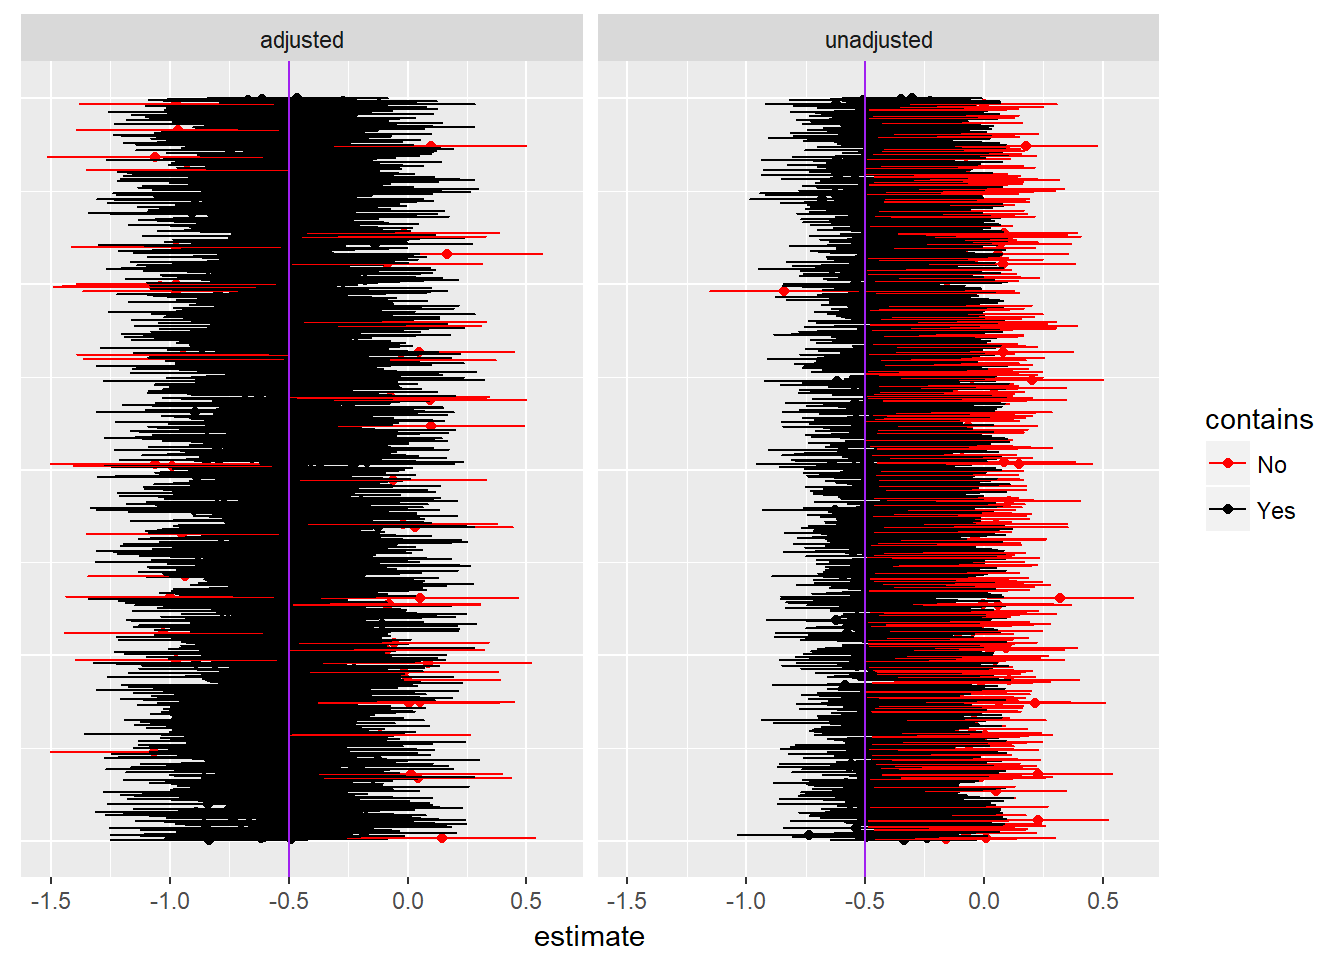
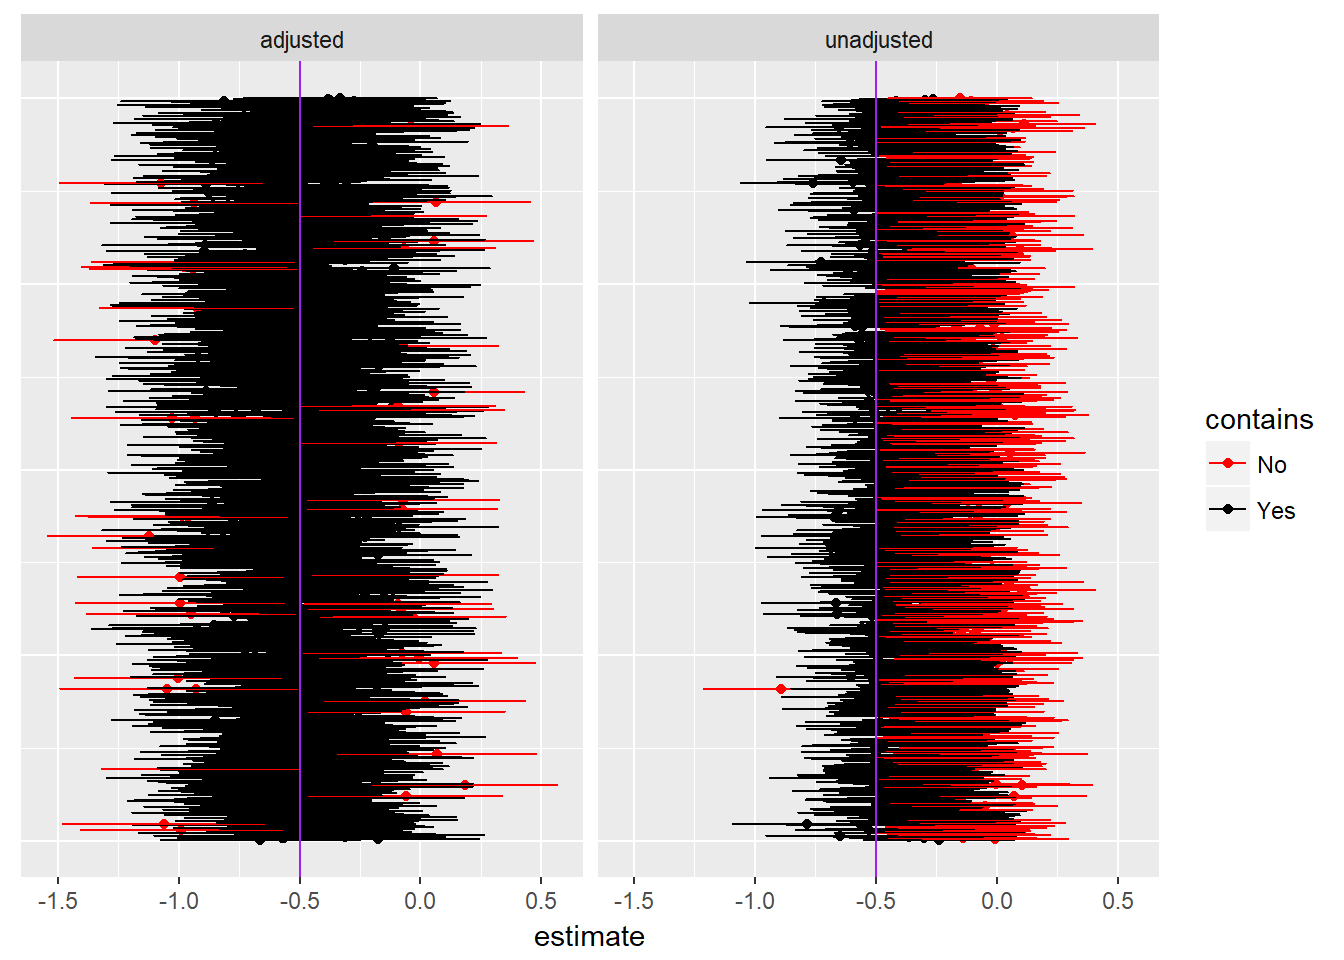
updated blog post

diff --git a/public/post/covariate-adjustment-for-binary-outcomes-in-randomized-trials/index.html b/public/post/covariate-adjustment-for-binary-outcomes-in-randomized-trials/index.html
@@ -59,7 +59,7 @@
 
   <article class="article">
     
-    <span class="article-duration">5 min read</span>
+    <span class="article-duration">8 min read</span>
     
 
     <h1 class="article-title">Covariate Adjustment for Binary Outcomes in Randomized Trials</h1>
@@ -89,30 +89,54 @@ N &lt;- 10000
 Sigma &lt;- matrix(c(10,3,3,2),2,2)
 unadj.df &lt;- data.frame(matrix(rep(NA, N*4), ncol = 4))
 adj.df &lt;- data.frame(matrix(rep(NA, N*4), ncol = 4))
-
+unadj.OR &lt;- adj.OR &lt;- OR &lt;- rep(NA, N)
 
 for(i in 1:N){
-
+  
   X &lt;- mvrnorm(1000, mu = c(0,0), Sigma = Sigma)
   #simulate random assignment to a treatment
   TRT &lt;- rbinom(1000, size = 1, pr = .5)
-  #Real relationship
-  lo &lt;- -2 + .15 * X[,1] + 1.5 * X[,2] - .5*TRT
-  pr &lt;- exp(lo) / (1 + exp(lo))
-  #Generate binary outcome
-  Y &lt;- rbinom(1000, size = 1, pr = pr)
+  #Probability of an event if everyone gets the treatment
+  trt.lo &lt;- -2 + .15 * X[,1] + 1.5 * X[,2] - .5
+  trt.pr &lt;- exp(trt.lo) / (1 + exp(trt.lo))
+  #Probability of an event if no one gets the treatment
+  pla.lo &lt;- -2 + .15 * X[,1] + 1.5 * X[,2] 
+  pla.pr &lt;- exp(pla.lo) / (1 + exp(pla.lo))
+  #Generate binary outcomes 
+  Y.trt &lt;- rbinom(1000, size = 1, pr = trt.pr)
+  Y.pla &lt;- rbinom(1000, size = 1, pr = pla.pr)
+  #Only observe actual assignment
+  Y &lt;- ifelse(TRT == 1, Y.trt, Y.pla)
   
   DAT &lt;- data.frame(Y,TRT, X)
   
+  #True OR
+  OR[i] &lt;- (mean(Y.trt)/(1 - mean(Y.trt))) /
+             (mean(Y.pla)/(1 - mean(Y.pla)))
   
   #Fit models
   unadj.mod &lt;- glm(Y ~ TRT, family = binomial(link = &quot;logit&quot;), data = DAT)
   unadj.df[i,] &lt;- summary(unadj.mod)$coefficients[2,]
-
+  
   
   adj.mod &lt;- glm(Y ~ X1 + X2 + TRT, family = binomial(link = &quot;logit&quot;), data = DAT)
   adj.df[i,] &lt;- summary(adj.mod)$coefficients[4,]
-
+  
+  #Predict outcome with unadjusted model
+  newdata2 &lt;- newdata &lt;- DAT
+  newdata$TRT &lt;- 1
+  newdata2$TRT &lt;- 0
+  
+  unadj.pr.trt &lt;- predict(unadj.mod, newdata = newdata, type = &quot;response&quot;)
+  unadj.pr.pla &lt;- predict(unadj.mod, newdata = newdata2, type = &quot;response&quot;)
+  unadj.OR[i] &lt;- (mean(unadj.pr.trt) / (1 - mean(unadj.pr.trt))) /
+                   (mean(unadj.pr.pla) / (1 - mean(unadj.pr.pla)))
+  
+  adj.pr.trt &lt;- predict(adj.mod, newdata = newdata, type = &quot;response&quot;)
+  adj.pr.pla &lt;- predict(adj.mod, newdata = newdata2, type = &quot;response&quot;)
+  adj.OR[i] &lt;- (mean(adj.pr.trt) / (1 - mean(adj.pr.trt))) /
+                 (mean(adj.pr.pla) / (1 - mean(adj.pr.pla)))
+  
 }
 
 names(unadj.df) &lt;- c(&quot;Estimate&quot;, &quot;SE&quot;, &quot;Z&quot;, &quot;P&quot;)
@@ -126,8 +150,12 @@ estimates &lt;- data.frame(order = c(c(1:N),c(1:N)),
 
 #Color code if interval contains true value
 estimates$contains &lt;- with(estimates,
-                 ifelse((estimate - 2*SE) &gt; -.5 | (estimate + 2*SE) &lt; -.5,
-                        &quot;No&quot;,&quot;Yes&quot;))</code></pre>
+                           ifelse((estimate - 2*SE) &gt; -.5 | (estimate + 2*SE) &lt; -.5,
+                                  &quot;No&quot;,&quot;Yes&quot;))
+
+#OR difference
+ORD &lt;- data.frame(ORD=c(OR - adj.OR, unadj.ORD = OR - unadj.OR),
+                  model = c(rep(&quot;Adj&quot;,N),rep(&quot;Unadj&quot;,N)))</code></pre>
 </div>
 <div id="results" class="section level1">
 <h1>Results</h1>
@@ -150,6 +178,28 @@ estimates$contains &lt;- with(estimates,
         axis.ticks.y=element_blank())</code></pre>
 <p><img src="/post/2018-02-18-covariate-adjustment-for-binary-outcomes-in-randomized-trials_files/figure-html/unnamed-chunk-3-1.png" width="672" /></p>
 <p>So it seems that, at least for this simple data set up, the adjusted model is clearly superior. I don’t know how these results hold up when the covariate adjusted model is mispecified, or when dealing with more complicated settings. These are topics I’d like to dig into in the future.</p>
+</div>
+<div id="additional-comments" class="section level1">
+<h1>Additional Comments</h1>
+<p>It was correctly pointed out that since the odds ratio is non-collapsible (the conditional effect doesn’t necessarily equal the marginal effect), the unadjusted and adjusted estimates aren’t really estimating the same thing. The unadjusted estimate is estimating the marginal, or “population averaged” effect, while the adjusted model is estimating the conditional effect.</p>
+<blockquote class="twitter-tweet" data-lang="en">
+<p lang="en" dir="ltr">
+Thank you <a href="https://twitter.com/analisereal?ref_src=twsrc%5Etfw"><span class="citation">@analisereal</span></a> - I was wondering if this was just the diff b/w marginal and conditional. <a href="https://twitter.com/fledglingStat?ref_src=twsrc%5Etfw"><span class="citation">@fledglingStat</span></a> I love the simln, but why not add the counterfactual outcomes so you can get the marginal effect. e.g., for each observation create the y(trt=0) and y(trt=1)?
+</p>
+— Maria Glymour (<span class="citation">@MariaGlymour</span>) <a href="https://twitter.com/MariaGlymour/status/965748110403096576?ref_src=twsrc%5Etfw">February 20, 2018</a>
+</blockquote>
+<script async src="https://platform.twitter.com/widgets.js" charset="utf-8"></script>
+<p>To explore what Dr. Glymour suggested, I added some code above that generates a separate “true” outcome for each patient, one under the treatment (Y.trt) and one under the control/placebo (Y.pla). Thus the true odds ratio is the ratio of the odds of these two values. The models are estimated using only the outcome value associated with the treatment assignment, since we only get to observe patients under one treatment regime (unless it’s a crossover design). Once the models were estimated I computed a predicted probability of an event both on an off the treatment for each patient and a corresponding odds ratio for each model. These serve as my marginal estimates. As is expected, the marginalized estimate for the unadjusted model is equal to coefficient in the unadusted regression model.</p>
+<p>The plot below displays the distribution of differences between the true marginal odds ratio and the estimated marginal odds ratio for both models as well as a purple line at 0, representing no difference. I’ve also printed the mean difference for the unadjusted model followed by the adjusted model. From inspecting the plot it’s clear that both estimates are essentially unbiased, but the adjusted estimate is more steeply peaked with smaller tails. Thus, the adjusted estimate is less likely than the unadjusted estimate to produce a poor estimate, e.g. it generally lies closer to the truth.</p>
+<pre class="r"><code>ggplot(ORD, aes(ORD)) +
+  geom_density() +
+  geom_vline(xintercept = 0, color = &quot;purple&quot;) +
+  facet_wrap(~ model)</code></pre>
+<p><img src="/post/2018-02-18-covariate-adjustment-for-binary-outcomes-in-randomized-trials_files/figure-html/unnamed-chunk-4-1.png" width="672" /></p>
+<pre class="r"><code>round(with(ORD,mean(ORD[model == &quot;Unadj&quot;])),3)</code></pre>
+<pre><code>## [1] -0.006</code></pre>
+<pre class="r"><code>round(with(ORD,mean(ORD[model == &quot;Adj&quot;])),3)</code></pre>
+<pre><code>## [1] -0.001</code></pre>
 </div>
 
     </div>

diff --git a/content/post/2018-02-18-covariate-adjustment-for-binary-outcomes-in-randomized-trials.html b/content/post/2018-02-18-covariate-adjustment-for-binary-outcomes-in-randomized-trials.html
@@ -31,30 +31,54 @@ N &lt;- 10000
 Sigma &lt;- matrix(c(10,3,3,2),2,2)
 unadj.df &lt;- data.frame(matrix(rep(NA, N*4), ncol = 4))
 adj.df &lt;- data.frame(matrix(rep(NA, N*4), ncol = 4))
-
+unadj.OR &lt;- adj.OR &lt;- OR &lt;- rep(NA, N)
 
 for(i in 1:N){
-
+  
   X &lt;- mvrnorm(1000, mu = c(0,0), Sigma = Sigma)
   #simulate random assignment to a treatment
   TRT &lt;- rbinom(1000, size = 1, pr = .5)
-  #Real relationship
-  lo &lt;- -2 + .15 * X[,1] + 1.5 * X[,2] - .5*TRT
-  pr &lt;- exp(lo) / (1 + exp(lo))
-  #Generate binary outcome
-  Y &lt;- rbinom(1000, size = 1, pr = pr)
+  #Probability of an event if everyone gets the treatment
+  trt.lo &lt;- -2 + .15 * X[,1] + 1.5 * X[,2] - .5
+  trt.pr &lt;- exp(trt.lo) / (1 + exp(trt.lo))
+  #Probability of an event if no one gets the treatment
+  pla.lo &lt;- -2 + .15 * X[,1] + 1.5 * X[,2] 
+  pla.pr &lt;- exp(pla.lo) / (1 + exp(pla.lo))
+  #Generate binary outcomes 
+  Y.trt &lt;- rbinom(1000, size = 1, pr = trt.pr)
+  Y.pla &lt;- rbinom(1000, size = 1, pr = pla.pr)
+  #Only observe actual assignment
+  Y &lt;- ifelse(TRT == 1, Y.trt, Y.pla)
   
   DAT &lt;- data.frame(Y,TRT, X)
   
+  #True OR
+  OR[i] &lt;- (mean(Y.trt)/(1 - mean(Y.trt))) /
+             (mean(Y.pla)/(1 - mean(Y.pla)))
   
   #Fit models
   unadj.mod &lt;- glm(Y ~ TRT, family = binomial(link = &quot;logit&quot;), data = DAT)
   unadj.df[i,] &lt;- summary(unadj.mod)$coefficients[2,]
-
+  
   
   adj.mod &lt;- glm(Y ~ X1 + X2 + TRT, family = binomial(link = &quot;logit&quot;), data = DAT)
   adj.df[i,] &lt;- summary(adj.mod)$coefficients[4,]
-
+  
+  #Predict outcome with unadjusted model
+  newdata2 &lt;- newdata &lt;- DAT
+  newdata$TRT &lt;- 1
+  newdata2$TRT &lt;- 0
+  
+  unadj.pr.trt &lt;- predict(unadj.mod, newdata = newdata, type = &quot;response&quot;)
+  unadj.pr.pla &lt;- predict(unadj.mod, newdata = newdata2, type = &quot;response&quot;)
+  unadj.OR[i] &lt;- (mean(unadj.pr.trt) / (1 - mean(unadj.pr.trt))) /
+                   (mean(unadj.pr.pla) / (1 - mean(unadj.pr.pla)))
+  
+  adj.pr.trt &lt;- predict(adj.mod, newdata = newdata, type = &quot;response&quot;)
+  adj.pr.pla &lt;- predict(adj.mod, newdata = newdata2, type = &quot;response&quot;)
+  adj.OR[i] &lt;- (mean(adj.pr.trt) / (1 - mean(adj.pr.trt))) /
+                 (mean(adj.pr.pla) / (1 - mean(adj.pr.pla)))
+  
 }
 
 names(unadj.df) &lt;- c(&quot;Estimate&quot;, &quot;SE&quot;, &quot;Z&quot;, &quot;P&quot;)
@@ -68,8 +92,12 @@ estimates &lt;- data.frame(order = c(c(1:N),c(1:N)),
 
 #Color code if interval contains true value
 estimates$contains &lt;- with(estimates,
-                 ifelse((estimate - 2*SE) &gt; -.5 | (estimate + 2*SE) &lt; -.5,
-                        &quot;No&quot;,&quot;Yes&quot;))</code></pre>
+                           ifelse((estimate - 2*SE) &gt; -.5 | (estimate + 2*SE) &lt; -.5,
+                                  &quot;No&quot;,&quot;Yes&quot;))
+
+#OR difference
+ORD &lt;- data.frame(ORD=c(OR - adj.OR, unadj.ORD = OR - unadj.OR),
+                  model = c(rep(&quot;Adj&quot;,N),rep(&quot;Unadj&quot;,N)))</code></pre>
 </div>
 <div id="results" class="section level1">
 <h1>Results</h1>
@@ -92,4 +120,26 @@ estimates$contains &lt;- with(estimates,
         axis.ticks.y=element_blank())</code></pre>
 <p><img src="/post/2018-02-18-covariate-adjustment-for-binary-outcomes-in-randomized-trials_files/figure-html/unnamed-chunk-3-1.png" width="672" /></p>
 <p>So it seems that, at least for this simple data set up, the adjusted model is clearly superior. I don’t know how these results hold up when the covariate adjusted model is mispecified, or when dealing with more complicated settings. These are topics I’d like to dig into in the future.</p>
+</div>
+<div id="additional-comments" class="section level1">
+<h1>Additional Comments</h1>
+<p>It was correctly pointed out that since the odds ratio is non-collapsible (the conditional effect doesn’t necessarily equal the marginal effect), the unadjusted and adjusted estimates aren’t really estimating the same thing. The unadjusted estimate is estimating the marginal, or “population averaged” effect, while the adjusted model is estimating the conditional effect.</p>
+<blockquote class="twitter-tweet" data-lang="en">
+<p lang="en" dir="ltr">
+Thank you <a href="https://twitter.com/analisereal?ref_src=twsrc%5Etfw"><span class="citation">@analisereal</span></a> - I was wondering if this was just the diff b/w marginal and conditional. <a href="https://twitter.com/fledglingStat?ref_src=twsrc%5Etfw"><span class="citation">@fledglingStat</span></a> I love the simln, but why not add the counterfactual outcomes so you can get the marginal effect. e.g., for each observation create the y(trt=0) and y(trt=1)?
+</p>
+— Maria Glymour (<span class="citation">@MariaGlymour</span>) <a href="https://twitter.com/MariaGlymour/status/965748110403096576?ref_src=twsrc%5Etfw">February 20, 2018</a>
+</blockquote>
+<script async src="https://platform.twitter.com/widgets.js" charset="utf-8"></script>
+<p>To explore what Dr. Glymour suggested, I added some code above that generates a separate “true” outcome for each patient, one under the treatment (Y.trt) and one under the control/placebo (Y.pla). Thus the true odds ratio is the ratio of the odds of these two values. The models are estimated using only the outcome value associated with the treatment assignment, since we only get to observe patients under one treatment regime (unless it’s a crossover design). Once the models were estimated I computed a predicted probability of an event both on an off the treatment for each patient and a corresponding odds ratio for each model. These serve as my marginal estimates. As is expected, the marginalized estimate for the unadjusted model is equal to coefficient in the unadusted regression model.</p>
+<p>The plot below displays the distribution of differences between the true marginal odds ratio and the estimated marginal odds ratio for both models as well as a purple line at 0, representing no difference. I’ve also printed the mean difference for the unadjusted model followed by the adjusted model. From inspecting the plot it’s clear that both estimates are essentially unbiased, but the adjusted estimate is more steeply peaked with smaller tails. Thus, the adjusted estimate is less likely than the unadjusted estimate to produce a poor estimate, e.g. it generally lies closer to the truth.</p>
+<pre class="r"><code>ggplot(ORD, aes(ORD)) +
+  geom_density() +
+  geom_vline(xintercept = 0, color = &quot;purple&quot;) +
+  facet_wrap(~ model)</code></pre>
+<p><img src="/post/2018-02-18-covariate-adjustment-for-binary-outcomes-in-randomized-trials_files/figure-html/unnamed-chunk-4-1.png" width="672" /></p>
+<pre class="r"><code>round(with(ORD,mean(ORD[model == &quot;Unadj&quot;])),3)</code></pre>
+<pre><code>## [1] -0.006</code></pre>
+<pre class="r"><code>round(with(ORD,mean(ORD[model == &quot;Adj&quot;])),3)</code></pre>
+<pre><code>## [1] -0.001</code></pre>
 </div>

diff --git a/public/about/index.html b/public/about/index.html
@@ -64,6 +64,7 @@
     <div class="article-content">
       <ul>
 <li>Author: Ryan Travis</li>
+<li>Email: rtravis89@gmail.com</li>
 <li>Occupation: Statistician</li>
 </ul>
 

diff --git a/content/about.md b/content/about.md
@@ -4,6 +4,7 @@ date: "2018-01-06"
 ---
 
 * Author: Ryan Travis
+* Email: rtravis89@gmail.com
 * Occupation: Statistician
 
 <dl>
